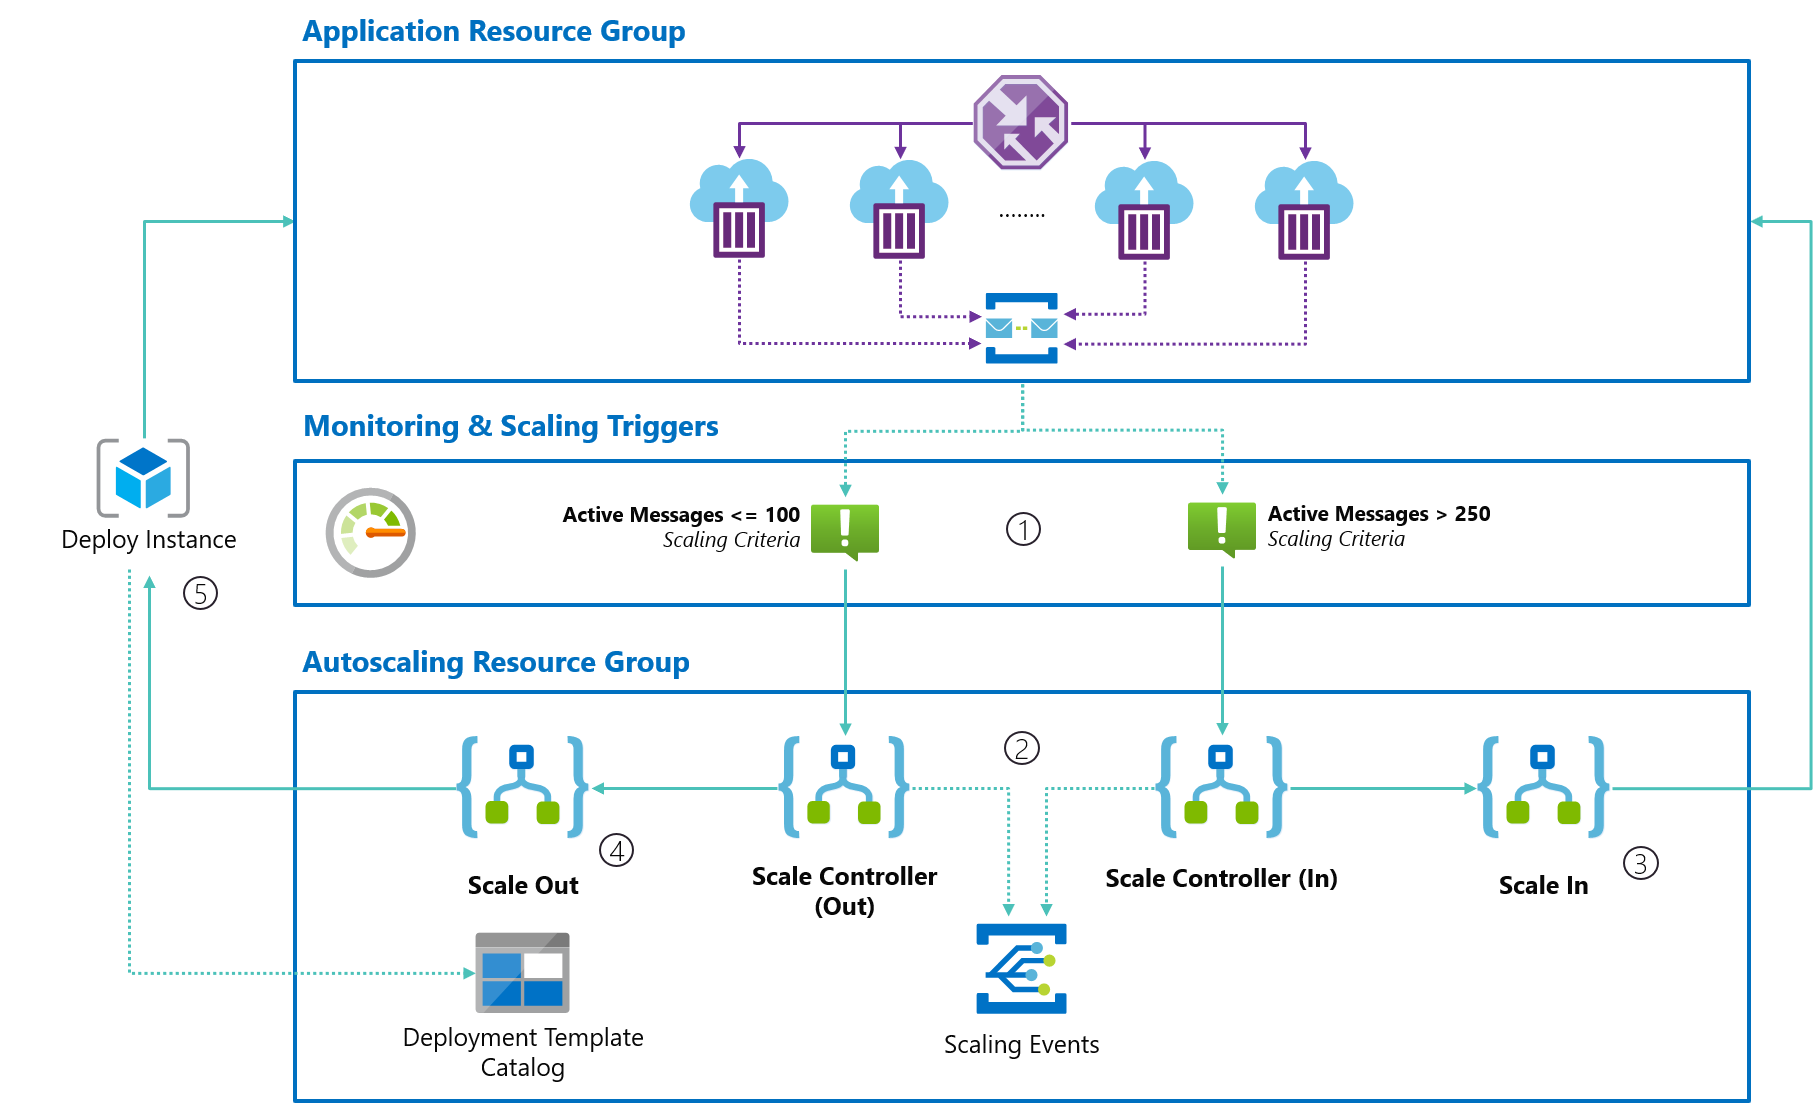
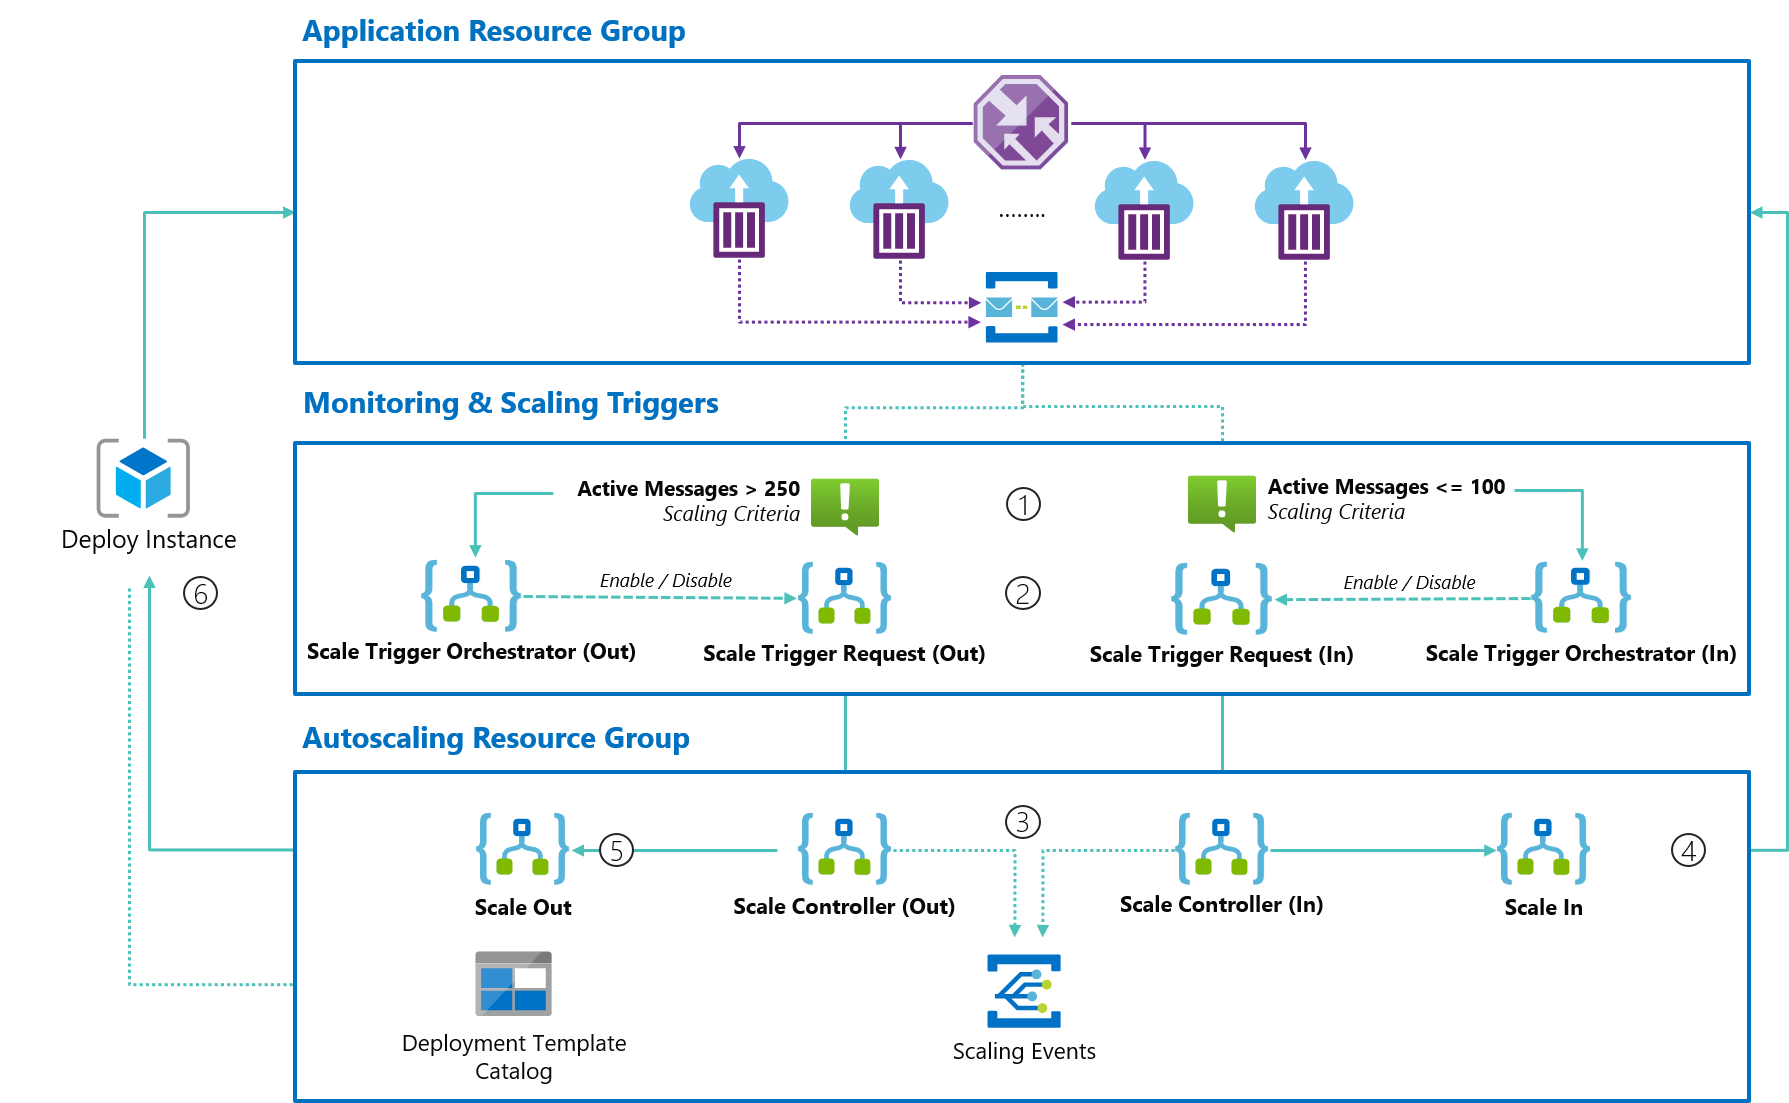
Provide docs on new approach with scale triggers

Changed region(s): [[0.0307, 0.0, 1.0, 1.0]]

diff --git a/README.md b/README.md
@@ -6,11 +6,12 @@ A proof-of-concept on how you can autoscale Azure Container Instance container g
 
 ## How does it work?
 
-1. **Azure Monitor Alerts are used to monitor scaling criteria** and will trigger scale controller to make scaling decisions.
-2. **Scale controllers evaluate the current amount of replicas** when they are triggered and take max/min replicas into account. In case scaling actions have to occur, they trigger a dedicated workflow to make it so and wait until it completes to trigger a scaling event.
-3. **Scale In** workflow queries the current amount of Azure Container Instance container group in the resource group and delete the first one.
-4. **Scale Out** workflow will load a deployment template provided in Azure Storage and replace it with the required information for the new container group. After that, it fully relies on Azure Resource Manager (ARM).
-5. **Azure Resource Manager provisions a new Azure Container Instance container group** based on the provided template in Azure Storage. When required, it can automatically add an endpoint in Azure Traffic Manager to expose it to clients.
+1. **Azure Monitor Alerts are used to monitor scaling criteria** and will trigger the scale trigger orchestrators
+2. **Scale trigger orchestrators are in charge of enabling/disabling Scale Trigger Request workflows**. These are triggered with a schedule so that it initiates the scale controller to make scaling decisions every x minutes.
+3. **Scale controllers evaluate the current amount of replicas** when they are triggered and take max/min replicas into account. In case scaling actions have to occur, they trigger a dedicated workflow to make it so and wait until it completes to trigger a scaling event.
+4. **Scale In** workflow queries the current amount of Azure Container Instance container group in the resource group and delete the first one.
+5. **Scale Out** workflow will load a deployment template provided in Azure Storage and replace it with the required information for the new container group. After that, it fully relies on Azure Resource Manager (ARM).
+6. **Azure Resource Manager provisions a new Azure Container Instance container group** based on the provided template in Azure Storage. When required, it can automatically add an endpoint in Azure Traffic Manager to expose it to clients.
 
 Here's a high-level overview:
 
